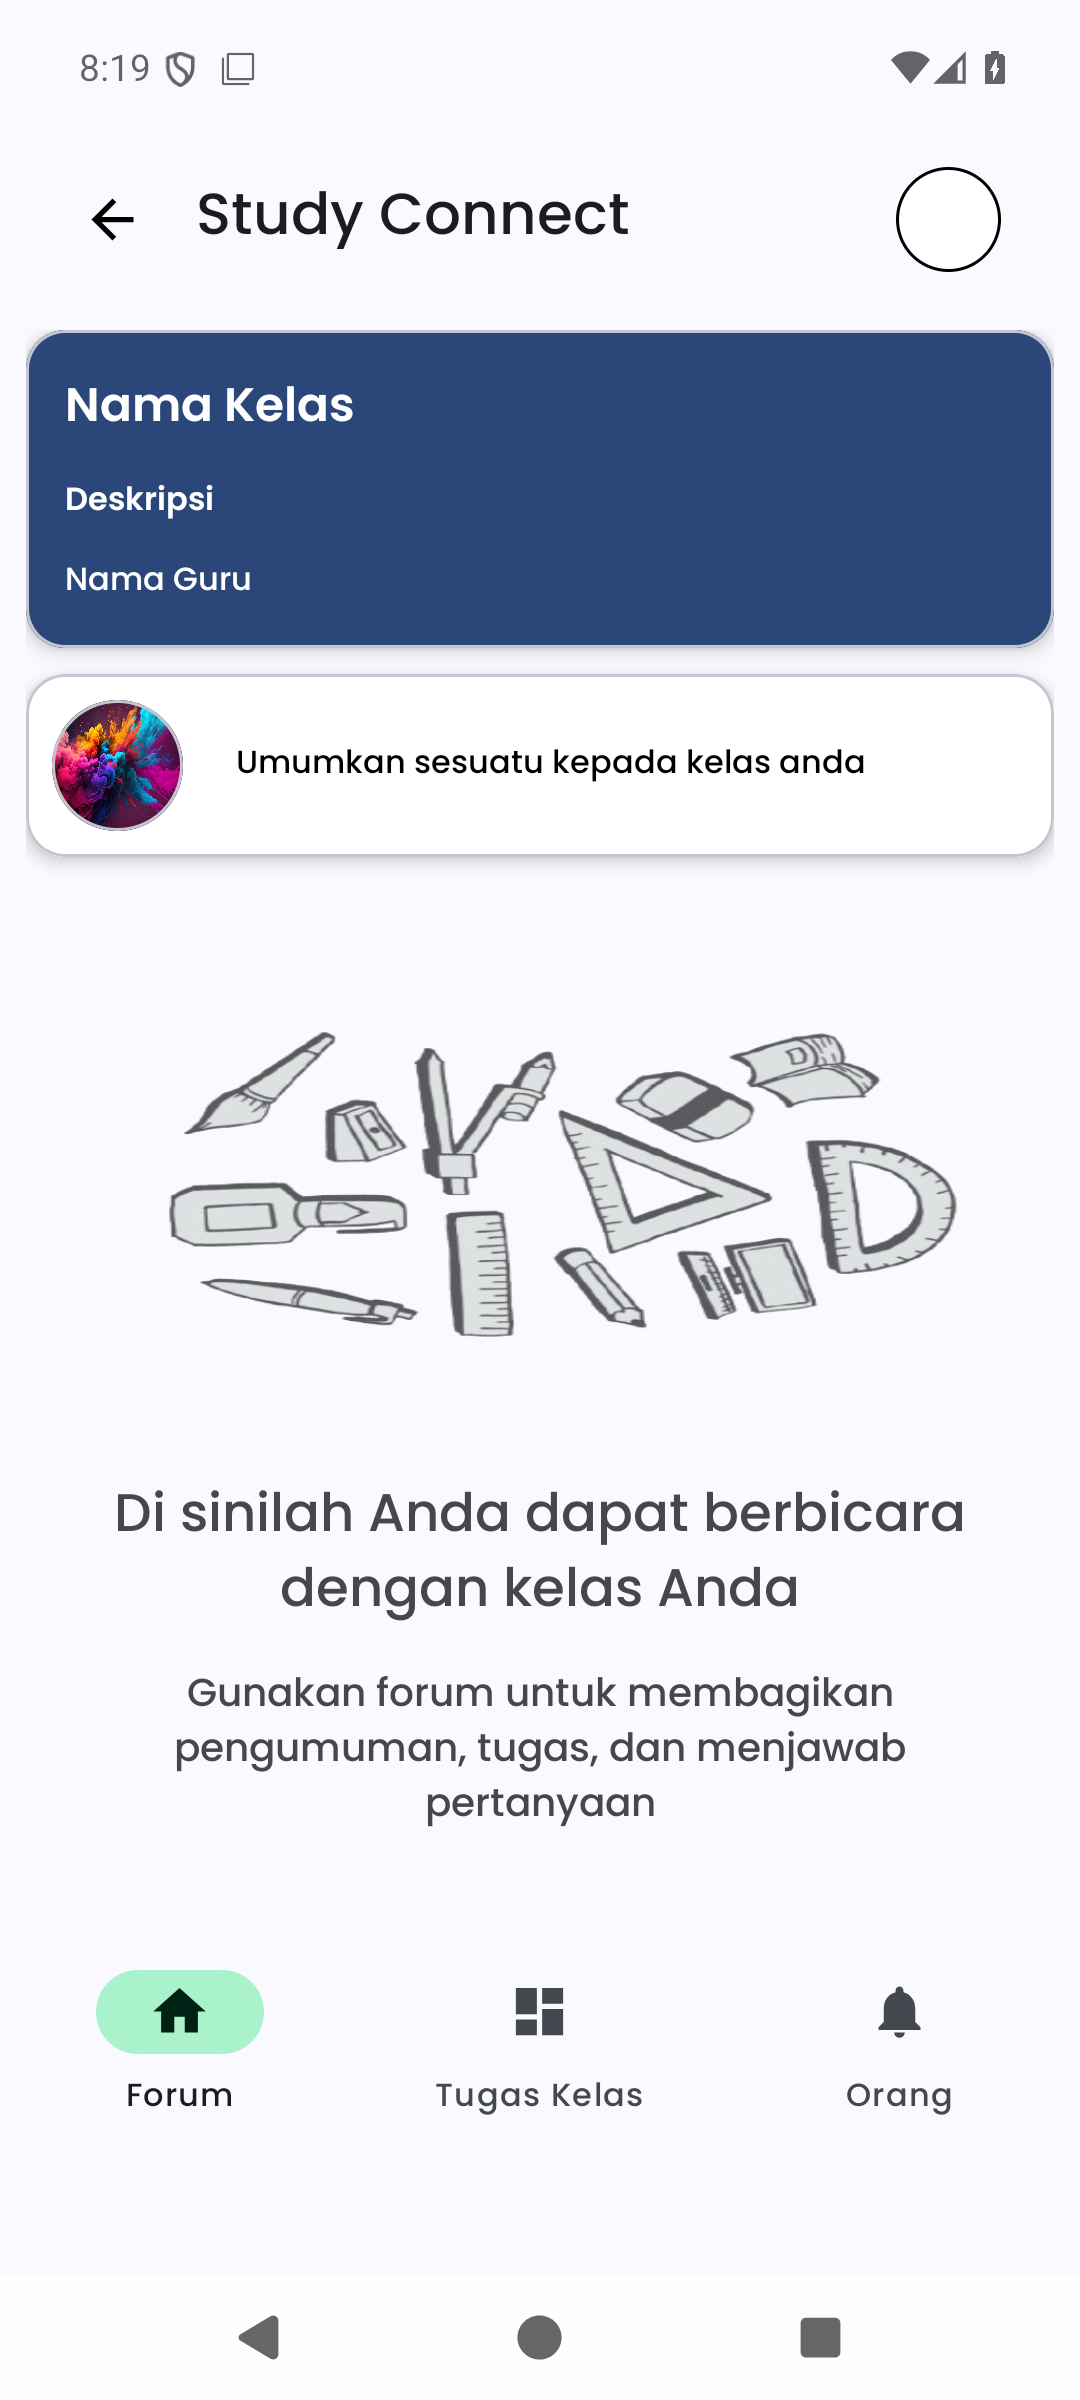
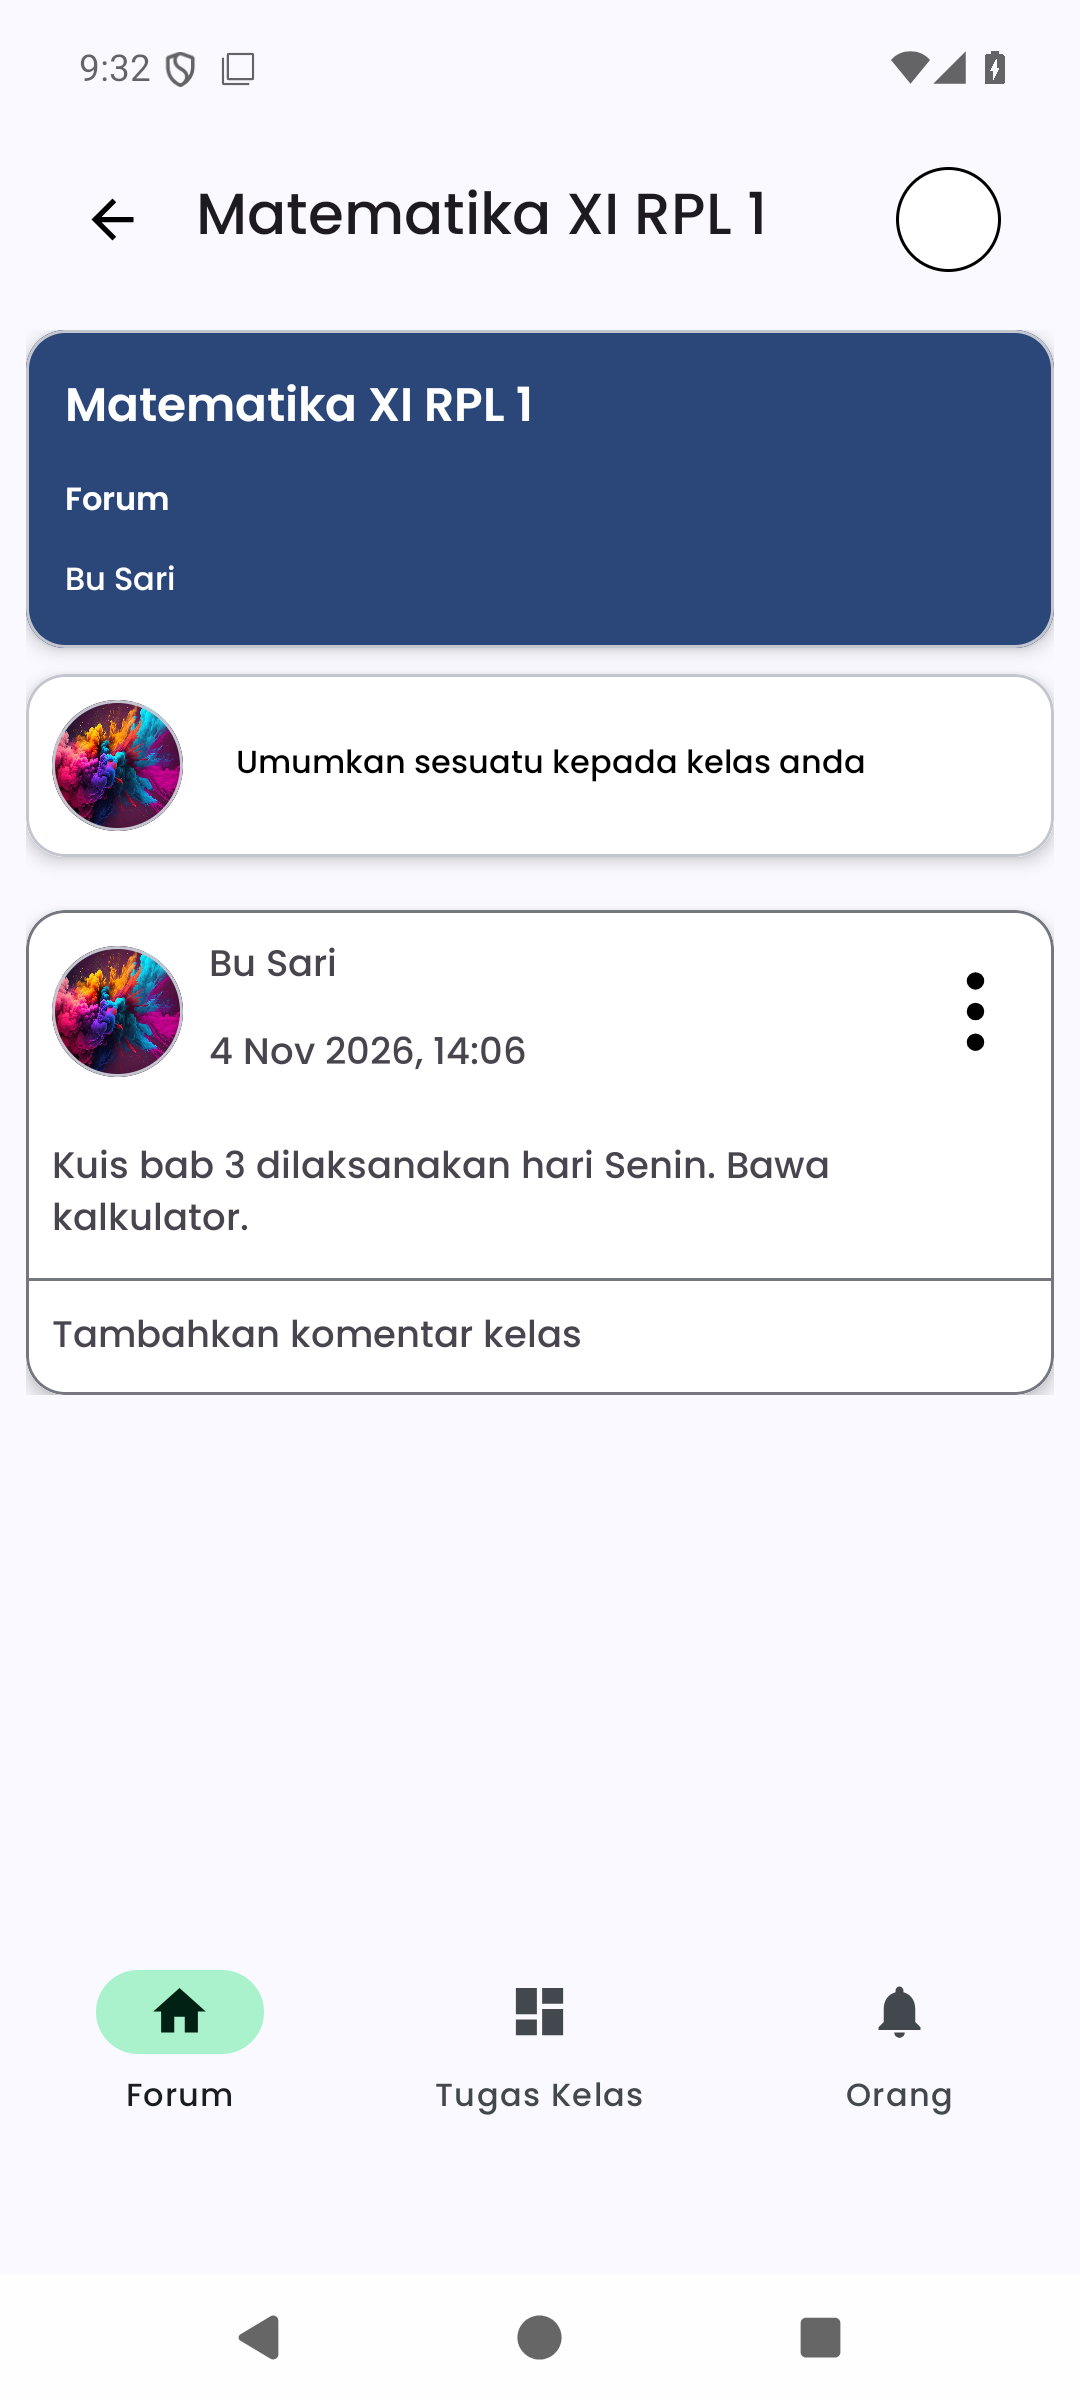
docs: show the api-backed screens

diff --git a/README.md b/README.md
@@ -7,33 +7,37 @@ materi, pengumuman, tugas, forum, dan daftar anggota kelas.
 
 ## Status
 
-Tahap UI. Layar beranda dan layar kelas (tab Forum, Tugas, Orang) sudah bisa dibuka
-dan dinavigasi. Lapisan jaringan masih kerangka: `ApiService` belum berisi endpoint,
-jadi semua layar menampilkan keadaan kosong dan tombol aksi belum menyimpan apa pun.
+Login dan pembacaan data sudah tersambung ke StudyConnect-API:
 
-Artinya: aplikasi bisa di-build dan dijalankan untuk melihat UI, belum bisa login atau
-mengambil data dari API.
+- login email/password, token Bearer disimpan dan dipakai untuk permintaan berikutnya
+- beranda menampilkan kelas milik pengguna yang login
+- tab Forum, Tugas, dan Orang memuat pengumuman, tugas, dan anggota kelas dari API
+
+Ada juga logout (menu di pojok kanan beranda). Yang belum ada: membuat/mengubah data
+(gabung kelas, buat kelas, posting pengumuman, tambah tugas, kirim jawaban). Tombol
+untuk itu masih menampilkan pesan "belum tersedia" agar tidak terlihat seperti berfungsi.
 
 ## Screenshot
 
-Diambil dari emulator Pixel 7 (Android 16), isinya keadaan kosong karena API belum
-tersambung:
+Diambil dari emulator Pixel 7 (Android 16) yang tersambung ke API lokal:
 
-| Beranda | Kelas · Forum |
-| --- | --- |
-| <img src="docs/screenshots/beranda.png" width="240" alt="Beranda"> | <img src="docs/screenshots/kelas-forum.png" width="240" alt="Kelas, tab Forum"> |
+| Login | Beranda | Kelas · Forum |
+| --- | --- | --- |
+| <img src="docs/screenshots/login.png" width="240" alt="Login"> | <img src="docs/screenshots/beranda.png" width="240" alt="Beranda kelas"> | <img src="docs/screenshots/kelas-forum.png" width="240" alt="Kelas, tab Forum"> |
 
 | Kelas · Tugas | Kelas · Orang |
 | --- | --- |
 | <img src="docs/screenshots/kelas-tugas.png" width="240" alt="Kelas, tab Tugas"> | <img src="docs/screenshots/kelas-orang.png" width="240" alt="Kelas, tab Orang"> |
 
+Data pada tangkapan layar adalah data contoh yang dibuat lewat API, bukan data sekolah.
+
 ## Rencana fitur
 
-- Login / register guru & siswa (token Bearer dari API)
-- Daftar kelas, gabung lewat kode kelas, buat kelas (guru)
-- Tugas: esai, pilihan ganda, unggah berkas + pengumpulan & penilaian
-- Forum diskusi kelas (teks & gambar)
-- Materi, pengumuman, dan daftar siswa per kelas
+- Login / register guru & siswa — login **selesai**, register belum
+- Daftar kelas — **selesai**; gabung lewat kode kelas & buat kelas belum
+- Tugas: daftar tugas **selesai**; esai, pilihan ganda, unggah berkas, pengumpulan & penilaian belum
+- Forum: daftar pengumuman **selesai**; posting dan komentar belum
+- Materi dan daftar siswa: daftar siswa **selesai**; materi belum
 
 ## Tech stack
 
@@ -52,14 +56,22 @@ Versi dependency terpusat di `gradle/libs.versions.toml`.
 
 ```
 app/src/main/java/com/example/studyconnect/
-├── MainActivity.java               # beranda: tombol gabung/buat kelas
-├── data/ApiService.java            # antarmuka Retrofit (masih kosong)
-├── di/AppModule.java               # provider Retrofit + SharedPreferences
-├── ui/class_ui/
-│   ├── ClassActivity.java          # toolbar + tiga tab (Forum, Tugas, Orang)
-│   ├── ForumFragment.java
-│   ├── ClassAssignmentFragment.java
-│   └── StudentListFragment.java
+├── MainActivity.java               # beranda: daftar kelas dari API
+├── data/
+│   ├── ApiClient.java              # Retrofit tunggal (baseUrl 10.0.2.2:8000)
+│   ├── ApiService.java             # endpoint login, kelas, siswa, tugas, pengumuman
+│   ├── Api.java                    # pembungkus Call + penanganan galat
+│   ├── Session.java                # token, peran, nama, dan id pengguna
+│   └── *Item.java                  # model respons API
+├── di/AppModule.java               # provider SharedPreferences (Hilt belum aktif)
+├── ui/
+│   ├── auth/LoginActivity.java     # login ke API
+│   ├── ClassAdapter.java
+│   └── class_ui/
+│       ├── ClassActivity.java      # toolbar + tiga tab (Forum, Tugas, Orang)
+│       ├── ForumFragment.java      # pengumuman
+│       ├── ClassAssignmentFragment.java
+│       └── StudentListFragment.java
 └── utils/SharedPreferencesManager.java
 ```
 
@@ -79,11 +91,21 @@ app/src/main/java/com/example/studyconnect/
    ./gradlew installDebug
    ```
 
-3. Sesuaikan `baseUrl` di `app/src/main/java/com/example/studyconnect/di/AppModule.java`
-   bila server tidak berjalan di localhost:
+3. Alamat API ada di `app/src/main/java/com/example/studyconnect/data/ApiClient.java`:
 
    ```java
-   .baseUrl("http://10.0.2.2:8000/api/")   // dari emulator Android ke localhost mesin
+   private static final String BASE_URL = "http://10.0.2.2:8000/api/";
+   ```
+
+   `10.0.2.2` adalah localhost mesin bila dilihat dari emulator Android. Untuk perangkat
+   fisik, ganti dengan IP LAN mesin (mis. `http://192.168.1.10:8000/api/`).
+
+4. Login memakai akun yang sudah terdaftar di API:
+
+   ```bash
+   curl -X POST http://127.0.0.1:8000/api/register \
+     -H 'Content-Type: application/json' -H 'Accept: application/json' \
+     -d '{"name":"Bu Sari","email":"sari@sekolah.test","role":"teacher","password":"rahasia123"}'
    ```
 
 ## Catatan
@@ -91,8 +113,7 @@ app/src/main/java/com/example/studyconnect/
 - `127.0.0.1` di dalam emulator menunjuk ke emulator itu sendiri. Untuk menjangkau
   `php artisan serve` di mesin host, pakai `10.0.2.2`. Untuk device fisik, pakai IP LAN
   mesin (mis. `http://192.168.1.10:8000/api/`).
-- `AndroidManifest.xml` belum memuat `<uses-permission android:name="android.permission.INTERNET" />`
-  dan belum mengaktifkan cleartext HTTP — keduanya perlu ditambahkan saat integrasi API mulai dipakai
-  (atau pakai HTTPS).
+- `AndroidManifest.xml` mengaktifkan `usesCleartextTraffic` karena API pengembangan berjalan
+  di HTTP. Untuk rilis, pakai HTTPS dan hapus flag itu.
 - Belum ada class `@HiltAndroidApp`; tambahkan `Application` beranotasi tersebut
   (dan daftarkan di manifest) sebelum memakai injeksi Hilt di Activity/Fragment.
